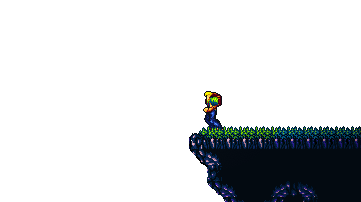
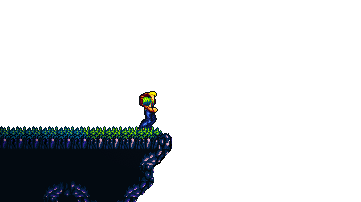
mobile fix

diff --git a/style.css b/style.css
@@ -239,20 +239,14 @@ body{
 
 .playerandprops{
     background-image: url(Assets/Images/playerandprops.png);
-    /* width: 766px; */
-    /* height: 289px; */
-    /* margin-top: -397px; */
-    /* margin-left: 31%; */
     position: absolute;
     z-index: -1;
     image-rendering: pixelated;
     transform: scale(5);
-    top: -262px;
-    /* width: 100%; */
+    top: -233px;
     height: 338px;
-    width: 440px;
-    right: 0;
-    margin-right: 358px;
+    width: 550px;
+    left: -1000px;
 }
 
 .playtype-section{
@@ -304,7 +298,7 @@ body{
     position:absolute;
     z-index: 10;
     width: 40%;
-    margin-left: 22%;
+    margin-left: 30%;
     margin-top: 16px;
 }
 
@@ -355,18 +349,9 @@ body{
         margin-left: 0;
         margin-right: 0;
     }
+    
     .playerandprops{
-        background-image: url("Assets/Images/playerandprops.png");
-        position: absolute;
-        z-index: -1;
-        image-rendering: pixelated;
         transform: scale(4);
-        top: -141px;
-        /* width: 100%; */
-        height: 395px;
-        width: 440px;
-        right: 0;
-        margin-right: 358px;
     
     }
 }
@@ -377,17 +362,7 @@ body{
         top:3em;
     }
     .playerandprops{
-        background-image: url("Assets/Images/playerandprops.png");
-        position: absolute;
-        z-index: -1;
-        image-rendering: pixelated;
         transform: scale(4);
-        top: -141px;
-        /* width: 100%; */
-        height: 395px;
-        width: 440px;
-        right: -426px;
-        margin-right: 358px;
     
     }
 
